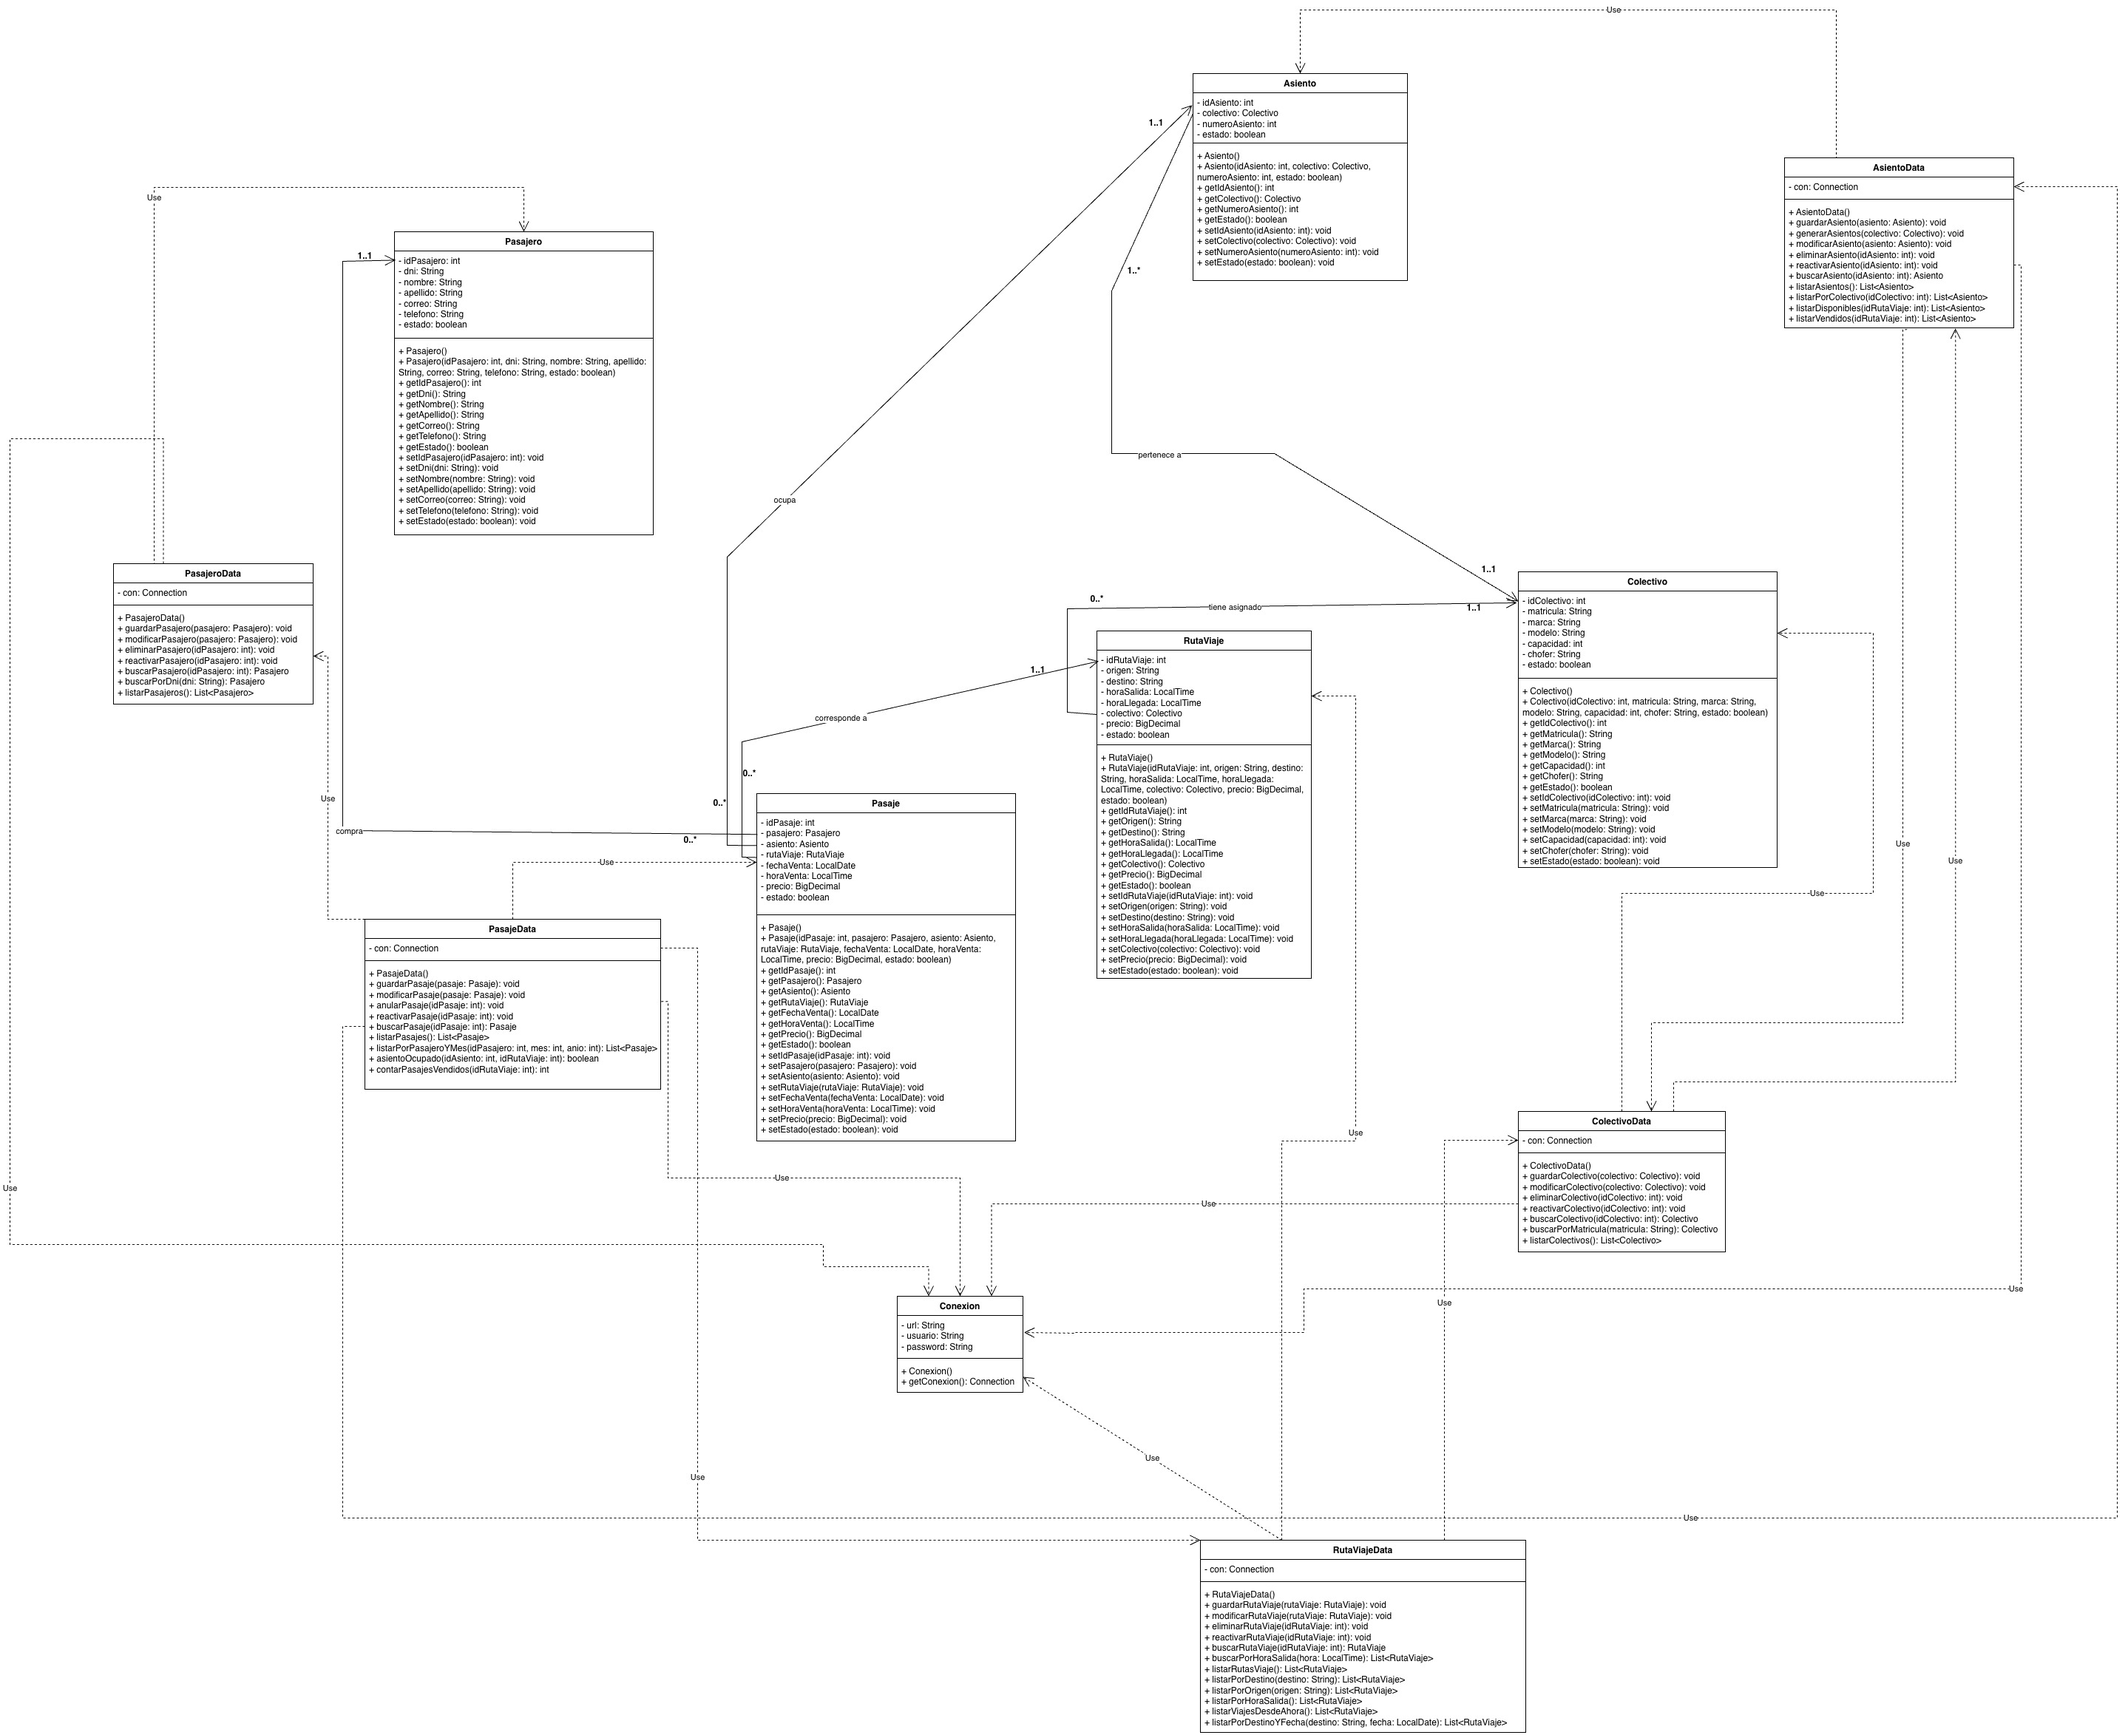
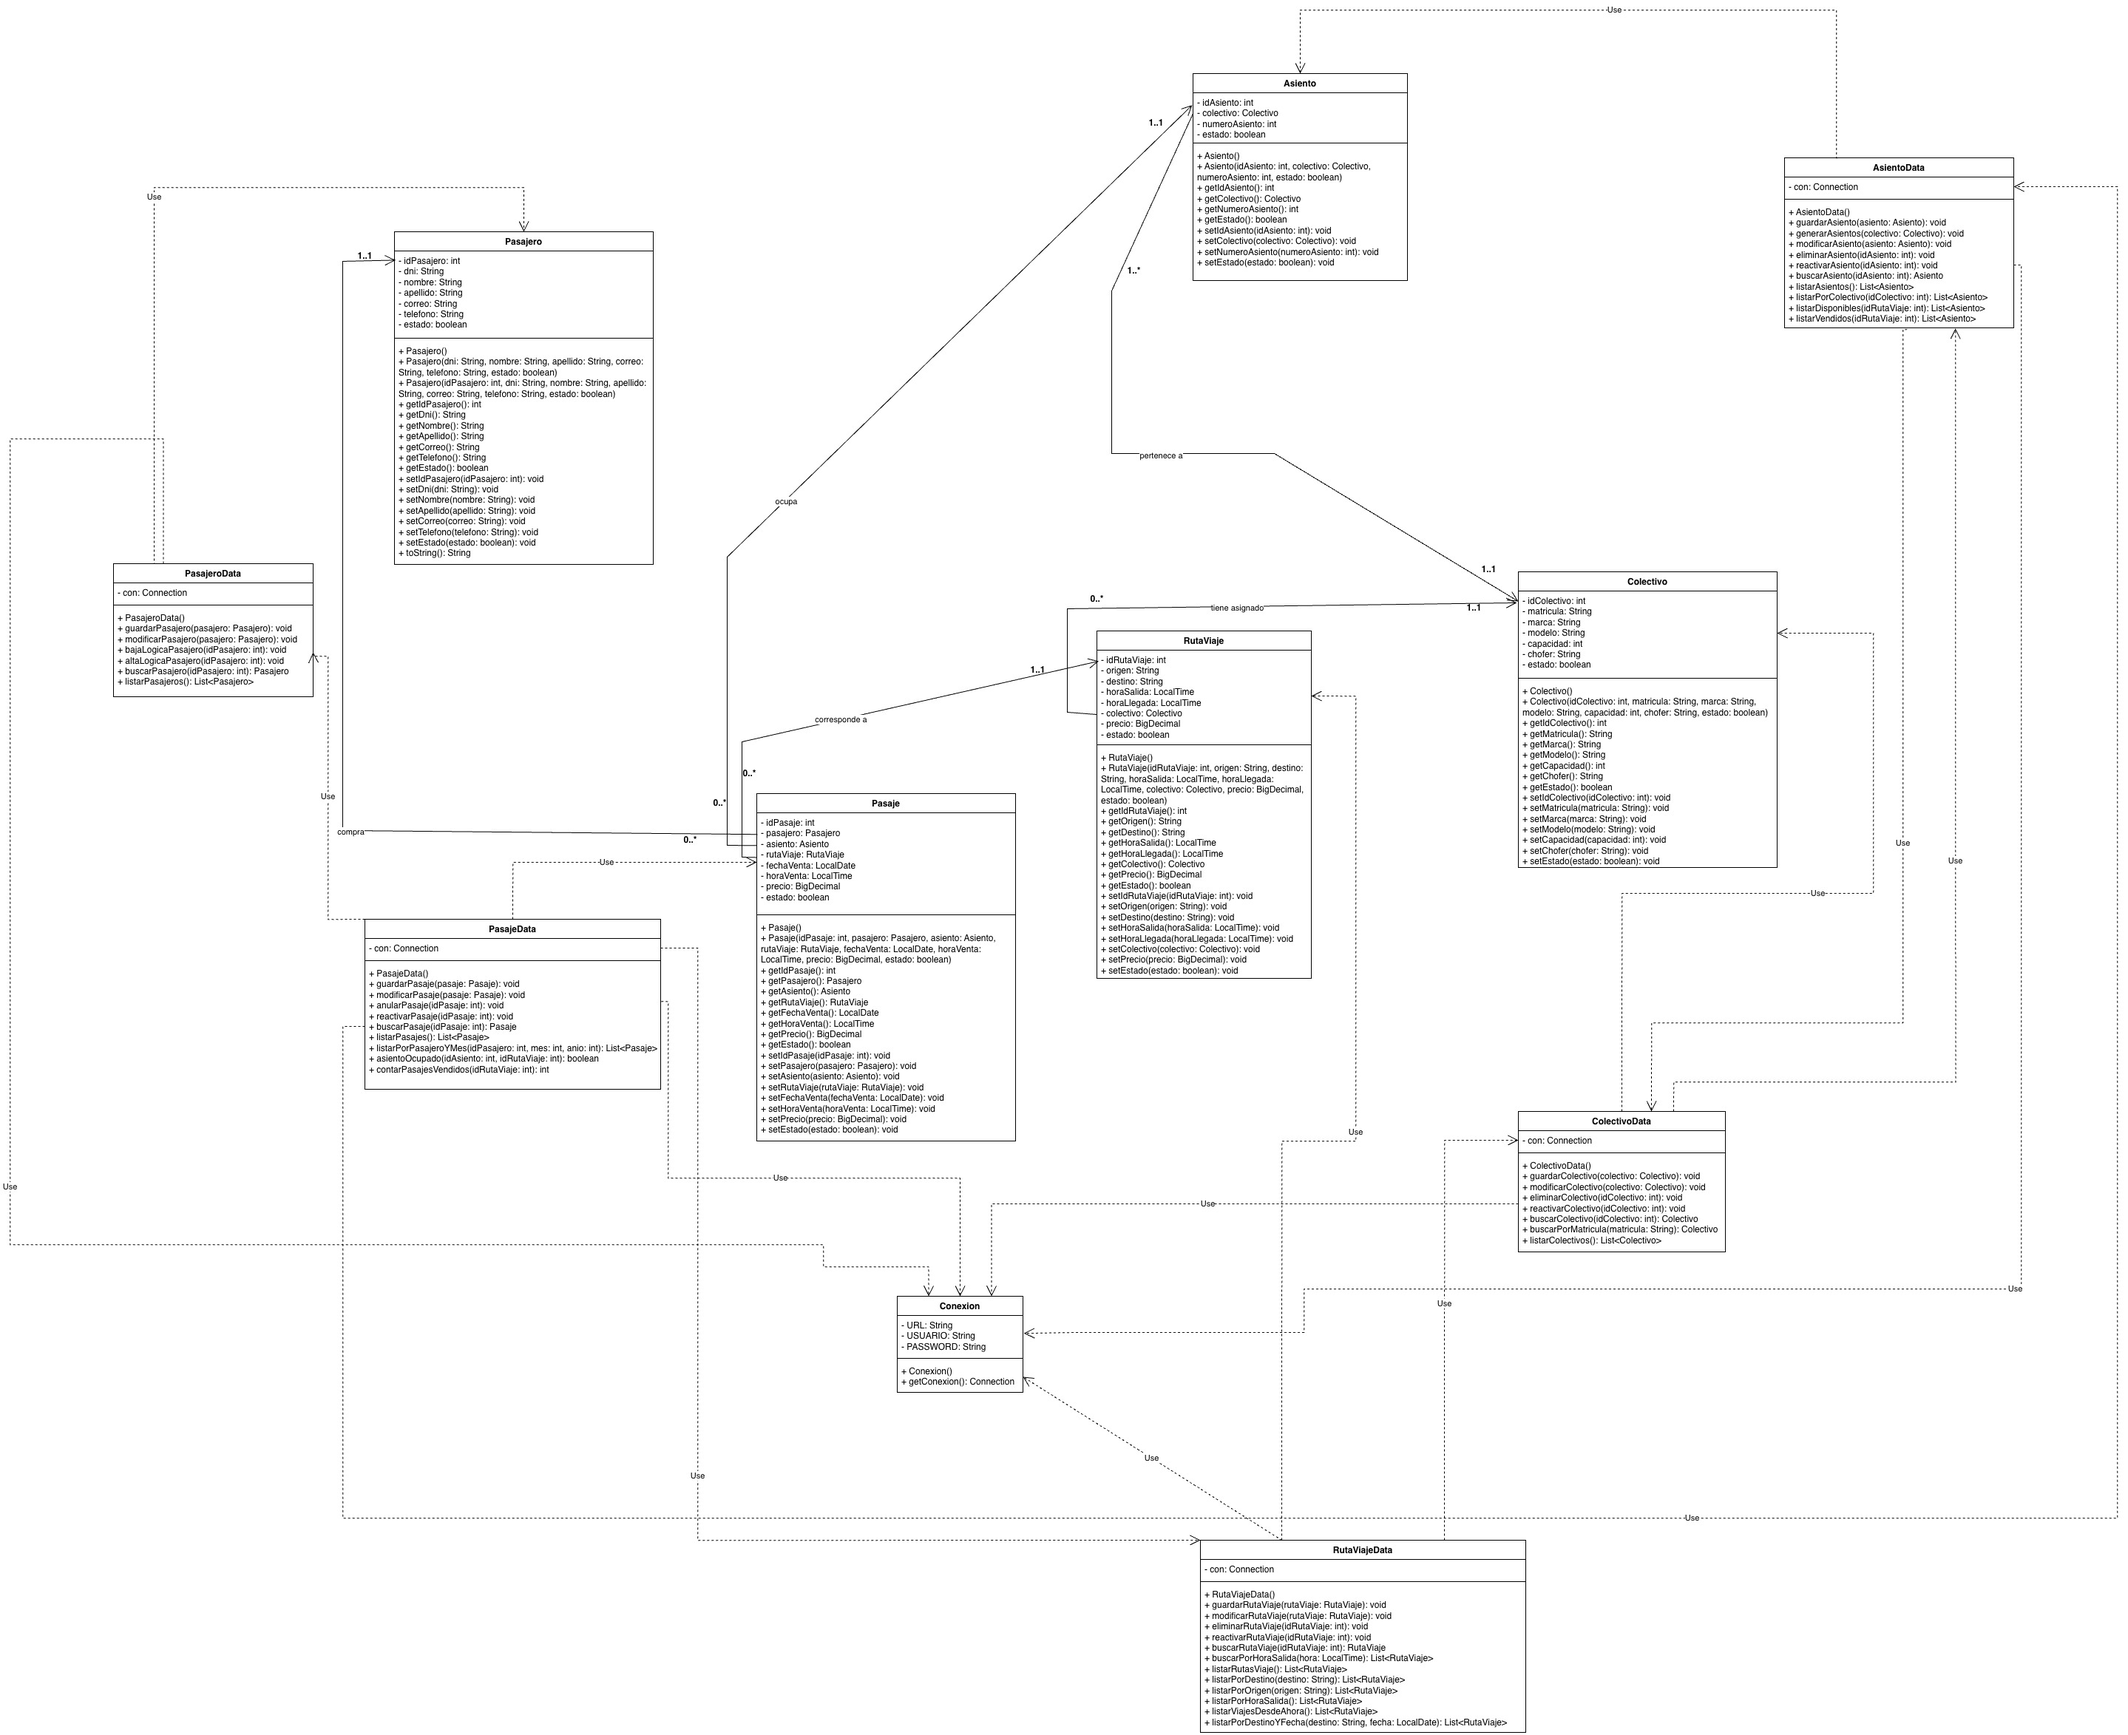
actualizacion de UML y se comentaron algunas cosas en Lugar.java para que no tenga errores al compilar

Changed region(s): [[0.1855, 0.1866, 0.2783, 0.3421], [0.0618, 0.3732, 0.1237, 0.4043], [0.4329, 0.7465, 0.4639, 0.7776]]

diff --git a/Proyecto_Final_FlechaFlash/src/flechaflash/modelo/Lugar.java b/Proyecto_Final_FlechaFlash/src/flechaflash/modelo/Lugar.java
@@ -5,19 +5,19 @@ import java.util.Objects;
 
 public class Lugar {
     private int idLugar;
-    private Colectivo colectivo;
+//    private Colectivo colectivo;
     private int numeroAsiento;
     private boolean estado;
 
     public Lugar() {
     }
 
-    public Lugar(int idLugar, Colectivo colectivo, int numeroAsiento, boolean estado) {
-        this.idLugar = idLugar;
-        this.colectivo = colectivo;
-        this.numeroAsiento = numeroAsiento;
-        this.estado = estado;
-    }
+//    public Lugar(int idLugar, Colectivo colectivo, int numeroAsiento, boolean estado) {
+//        this.idLugar = idLugar;
+//        this.colectivo = colectivo;
+//        this.numeroAsiento = numeroAsiento;
+//        this.estado = estado;
+//    }
 
     public int getIdLugar() {
         return idLugar;
@@ -27,13 +27,13 @@ public class Lugar {
         this.idLugar = idLugar;
     }
 
-    public Colectivo getColectivo() {
-        return colectivo;
-    }
+//    public Colectivo getColectivo() {
+//        return colectivo;
+//    }
 
-    public void setColectivo(Colectivo colectivo) {
-        this.colectivo = colectivo;
-    }
+//    public void setColectivo(Colectivo colectivo) {
+//        this.colectivo = colectivo;
+//    }
 
     public int getNumeroAsiento() {
         return numeroAsiento;
@@ -51,10 +51,10 @@ public class Lugar {
         this.estado = estado;
     }
 
-    @Override
-    public String toString() {
-        return "Lugar{" + "idLugar=" + idLugar + ", colectivo=" + colectivo + ", numeroAsiento=" + numeroAsiento + ", estado=" + (estado ? "Disponible" : "No Disponible")+ '}';
-    }
+//    @Override
+//    public String toString() {
+//        return "Lugar{" + "idLugar=" + idLugar + ", colectivo=" + colectivo + ", numeroAsiento=" + numeroAsiento + ", estado=" + (estado ? "Disponible" : "No Disponible")+ '}';
+//    }
 
     @Override
     public boolean equals(Object obj) {
